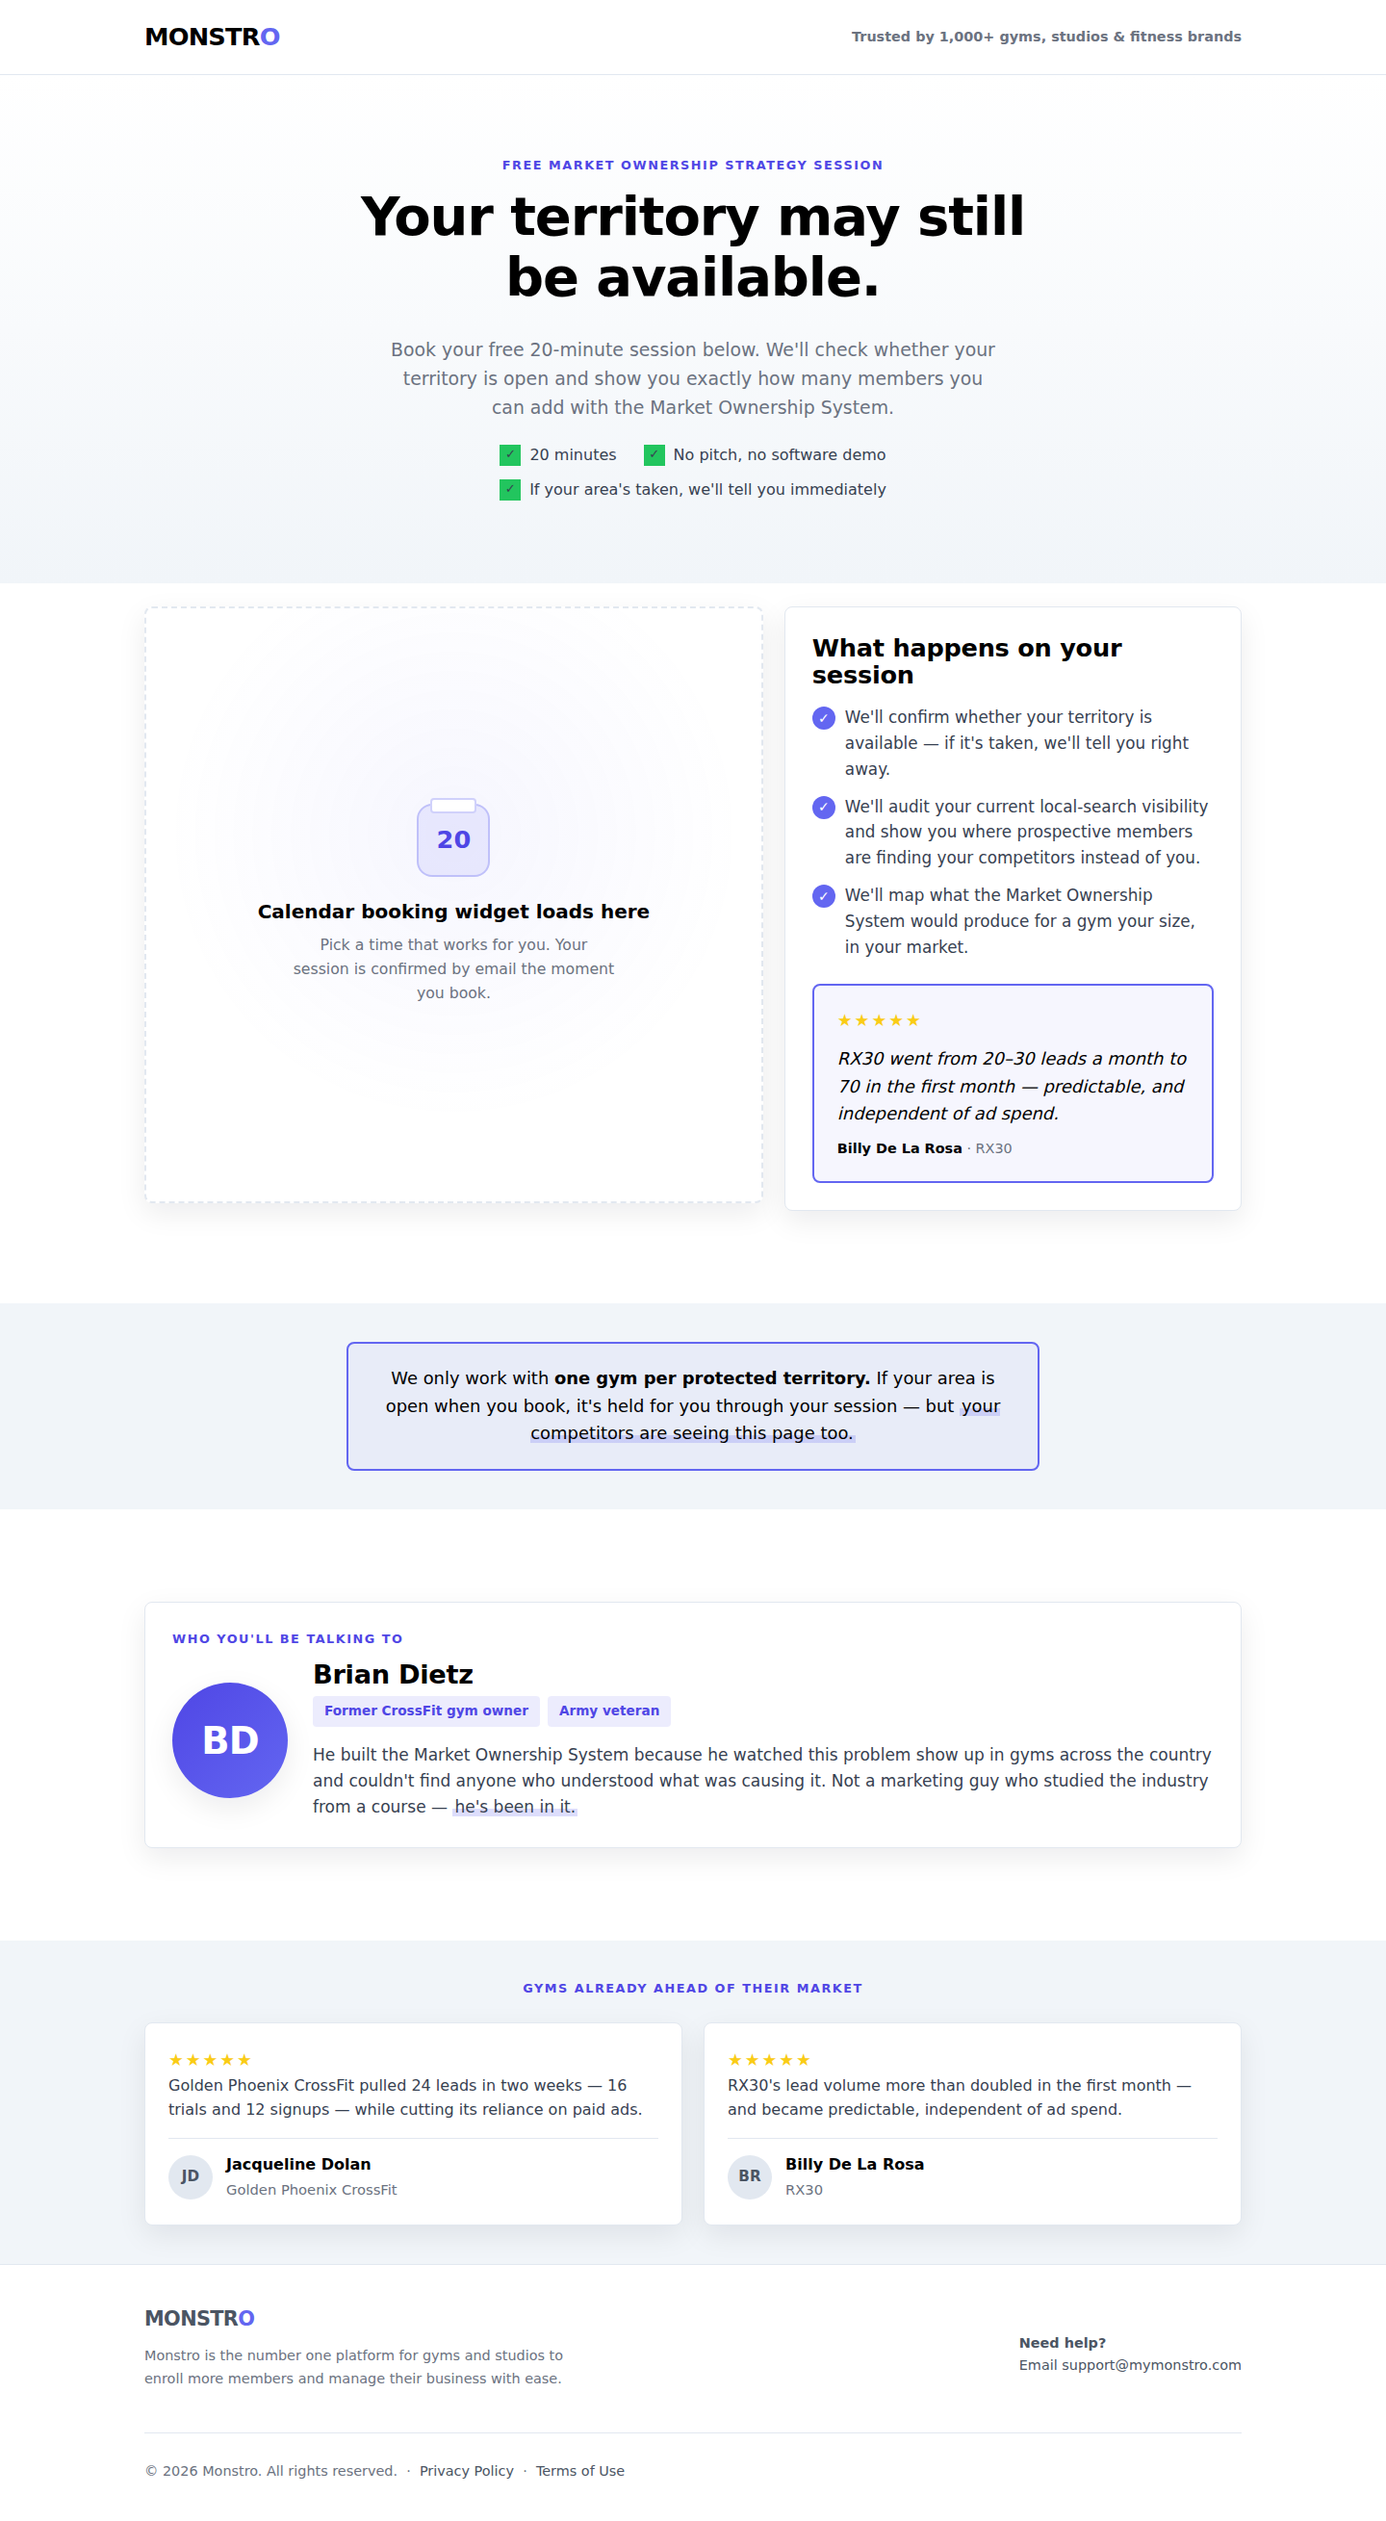
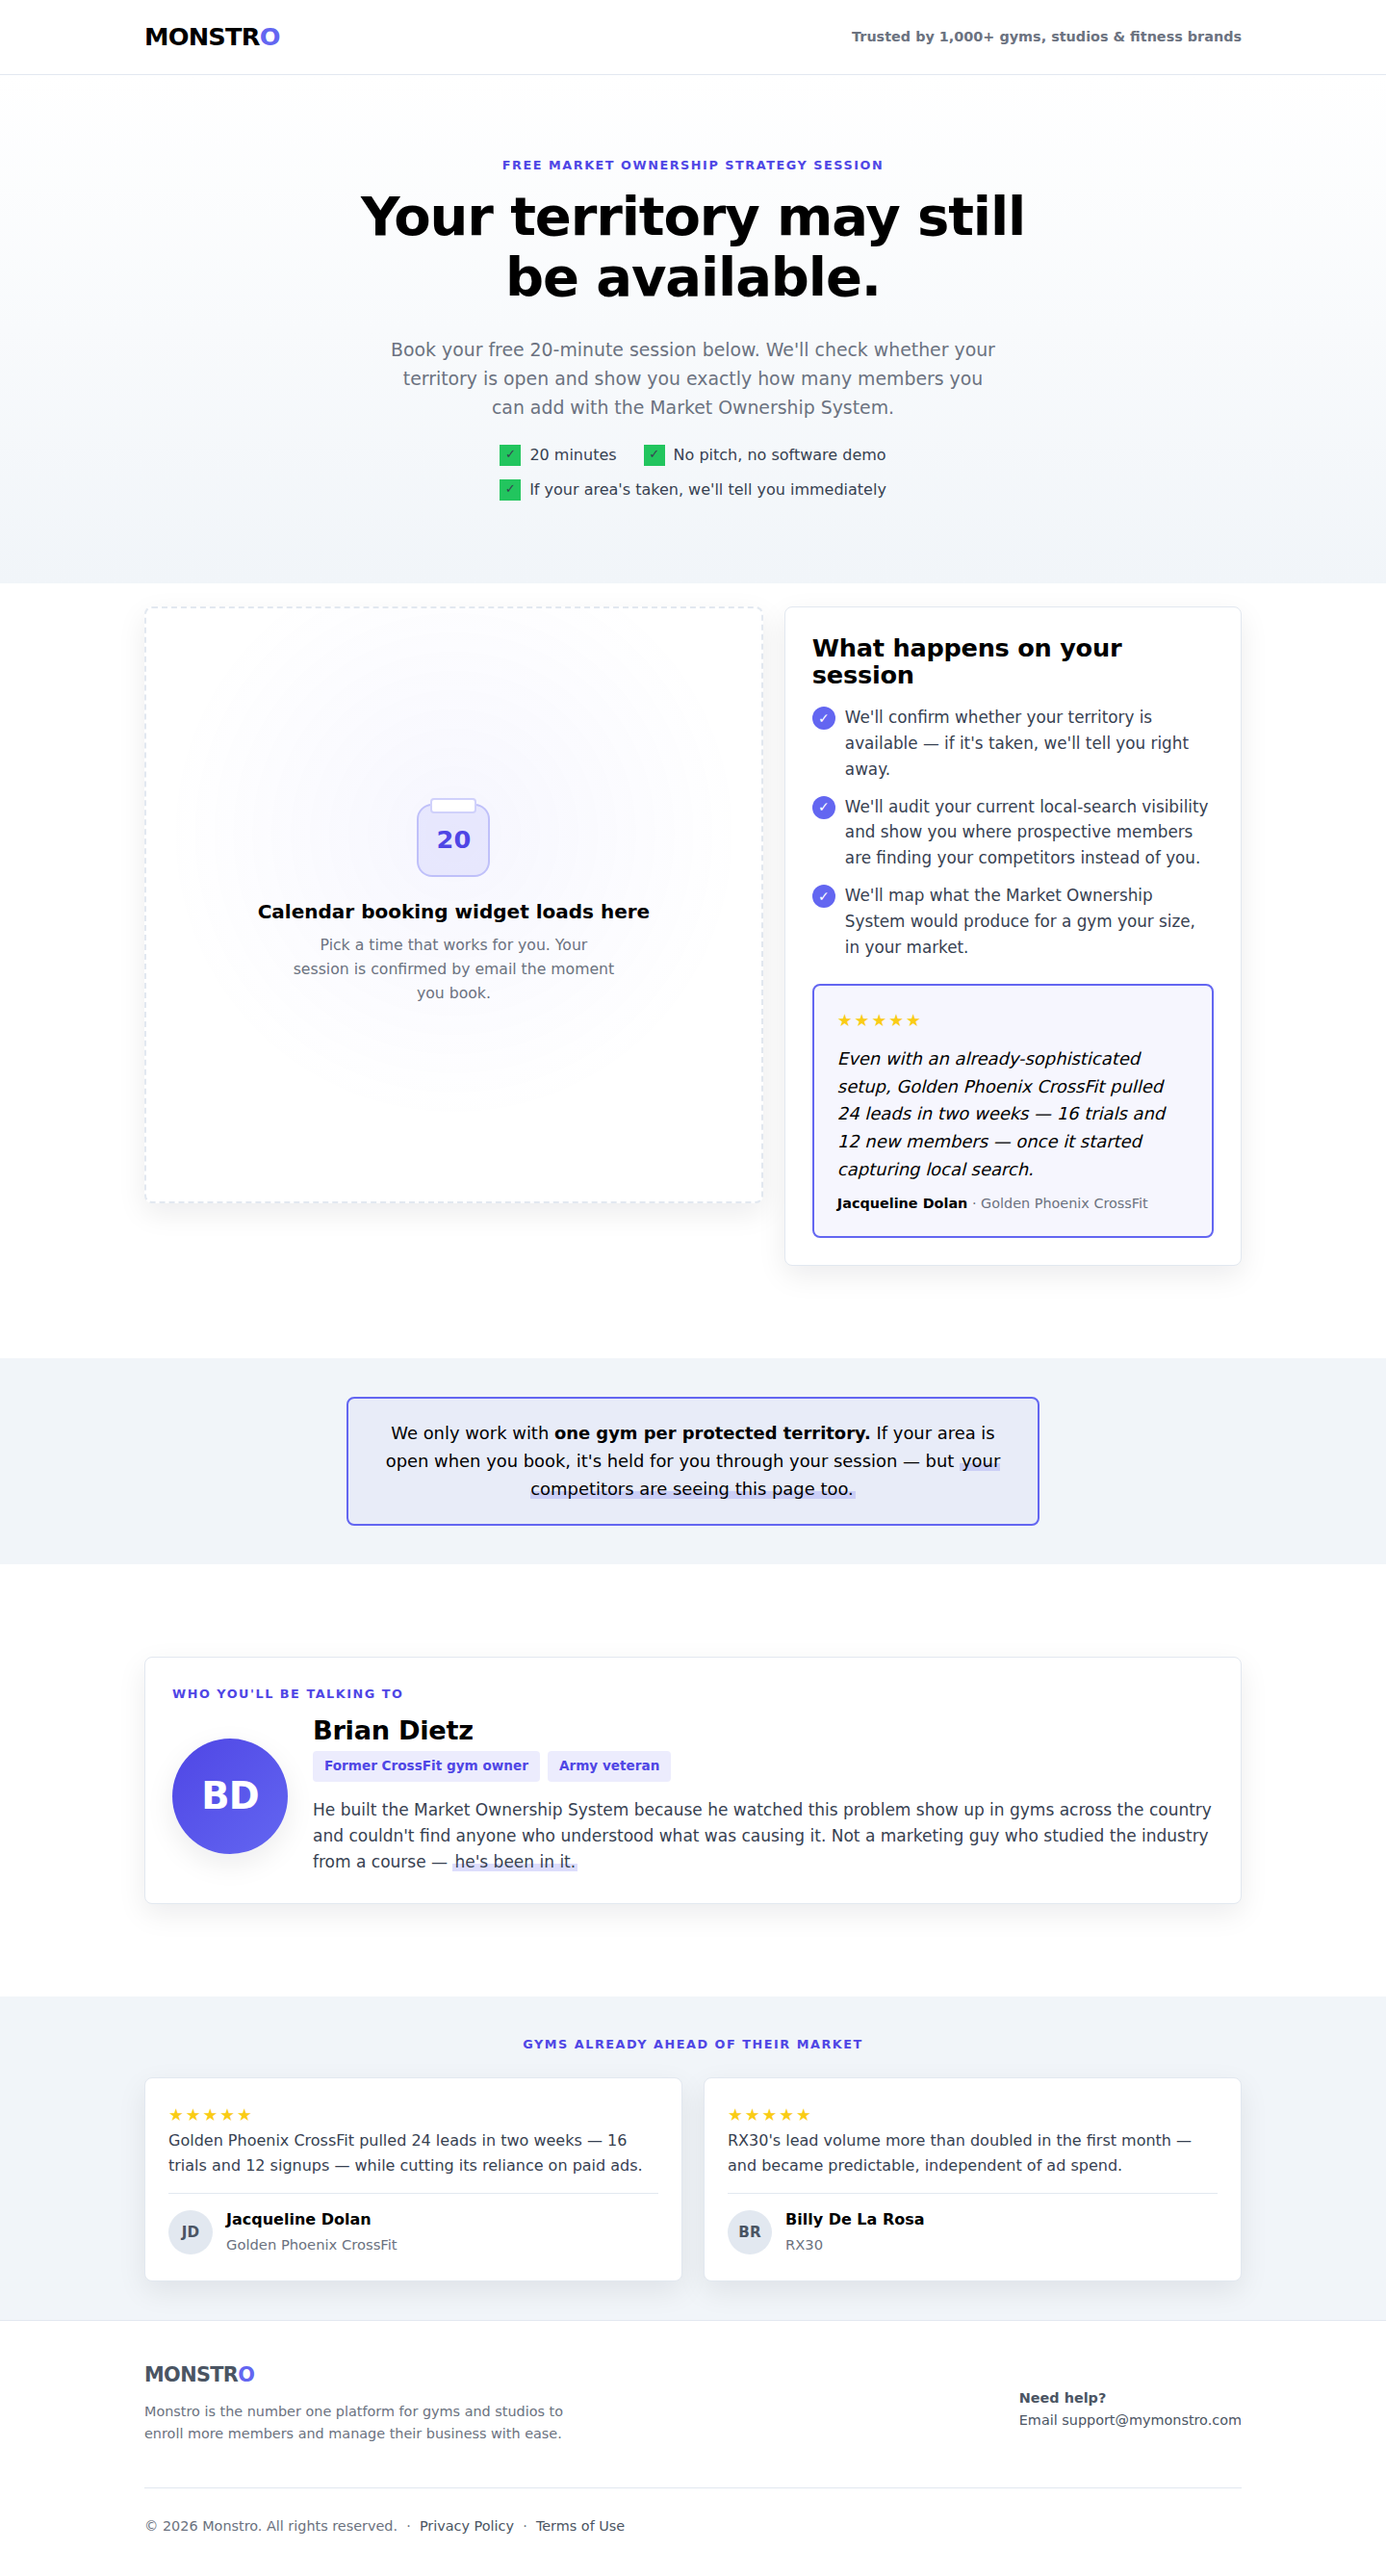
Promote Jacqueline to primary case study in fitness clone
Video-verified client should anchor the funnel, so swap primary/secondary:
- Hero story ad is now Jacqueline (24 leads/2wks -> 16 trials -> 12 members);
  removed the Billy hero ad
- Booking primary pull-quote swapped Billy -> Jacqueline
- Billy stays as secondary proof-strip card
- ads/index.html updated to reference ad-4-jacqueline
- Re-rendered ad-4 PNG + booking preview

https://claude.ai/code/session_015DuoEk7YkrYvsCbJB2UrXn

diff --git a/funnel/fitness-studios/ads/ad-4-jacqueline.html b/funnel/fitness-studios/ads/ad-4-jacqueline.html
@@ -4,7 +4,7 @@
 <head>
 <meta charset="UTF-8">
 <meta name="viewport" content="width=device-width, initial-scale=1.0">
-<title>Monstro Ad 4 — Billy's Story</title>
+<title>Monstro Ad 4 — Jacqueline's Story</title>
 <link rel="stylesheet" href="../../assets/brand.css">
 <style>
   html, body { background: #334155; }
@@ -158,31 +158,31 @@
 
     <div class="wordmark">MONSTR<span class="o">O</span></div>
 
-    <!-- Decorative 5-star row (both featured clients are real and positive). No fabricated quote text. -->
+    <!-- Decorative 5-star row — Jacqueline is a real, video-verified client. No fabricated quote text. -->
     <div class="review-stars">★★★★★</div>
 
     <div class="headline">
-      <span class="off">20–30 leads</span> a month on ads. Then <span class="grow">70</span> in his first month.
+      24 leads in 2 weeks. 16 trials. <span class="grow">12</span> new members.
     </div>
 
     <div class="support">
-      <b>Billy De La Rosa, RX30.</b> Ad-dependent and preparing to franchise. The system captured his local search demand — <b>lead volume more than doubled</b> and became predictable.
+      <b>Jacqueline Dolan, Golden Phoenix CrossFit.</b> She already ran a sophisticated setup — then she shifted focus to capturing local search and cut her reliance on paid ads.
     </div>
 
-    <!-- Swap for a verbatim client quote when approved. -->
+    <!-- Real video testimonial on file (Golden Phoenix CrossFit). Verbatim pull-quote can be added when approved. -->
     <div class="who">
-      <!-- Placeholder avatar: replace 'BR' initials with a Billy De La Rosa headshot when available. -->
-      <div class="avatar">BR</div>
+      <!-- Placeholder avatar: replace 'JD' initials with a Jacqueline Dolan headshot when available. -->
+      <div class="avatar">JD</div>
       <div>
-        <div class="who-name">Billy De La Rosa</div>
-        <div class="who-sub">RX30</div>
+        <div class="who-name">Jacqueline Dolan</div>
+        <div class="who-sub">Golden Phoenix CrossFit</div>
       </div>
     </div>
 
     <div class="spacer"></div>
 
     <div class="cta-row">
-      <span class="cta-pill">See how he did it →</span>
+      <span class="cta-pill">See how she did it →</span>
       <span class="site-tag">mymonstro.com</span>
     </div>
   </div>

diff --git a/funnel/fitness-studios/booking.html b/funnel/fitness-studios/booking.html
@@ -177,11 +177,11 @@
 
           <div class="callout mt24">
             <span class="stars" aria-label="5 out of 5 stars"></span>
-            <!-- Swap for a verbatim client quote when approved. -->
+            <!-- Swap for a verbatim client quote when approved. Video testimonial on file. -->
             <p style="font-size:1.12rem;font-style:italic;color:var(--black);margin:12px 0 10px">
-              RX30 went from 20&ndash;30 leads a month to 70 in the first month &mdash; predictable, and independent of ad spend.
+              Even with an already-sophisticated setup, Golden Phoenix CrossFit pulled 24 leads in two weeks &mdash; 16 trials and 12 new members &mdash; once it started capturing local search.
             </p>
-            <p class="small muted mb0"><strong style="color:var(--black)">Billy De La Rosa</strong> &middot; RX30</p>
+            <p class="small muted mb0"><strong style="color:var(--black)">Jacqueline Dolan</strong> &middot; Golden Phoenix CrossFit</p>
           </div>
         </div>
 

diff --git a/funnel/fitness-studios/ads/index.html b/funnel/fitness-studios/ads/index.html
@@ -116,8 +116,8 @@
     </div>
 
     <div class="preview">
-      <div class="frame-box"><iframe src="ad-4-billy.html" title="Ad 4" scrolling="no"></iframe></div>
-      <div class="caption">Ad 4 — Billy's Story<span class="file">ad-4-billy.html</span></div>
+      <div class="frame-box"><iframe src="ad-4-jacqueline.html" title="Ad 4" scrolling="no"></iframe></div>
+      <div class="caption">Ad 4 — Jacqueline's Story<span class="file">ad-4-jacqueline.html</span></div>
     </div>
   </div>
 </body>
